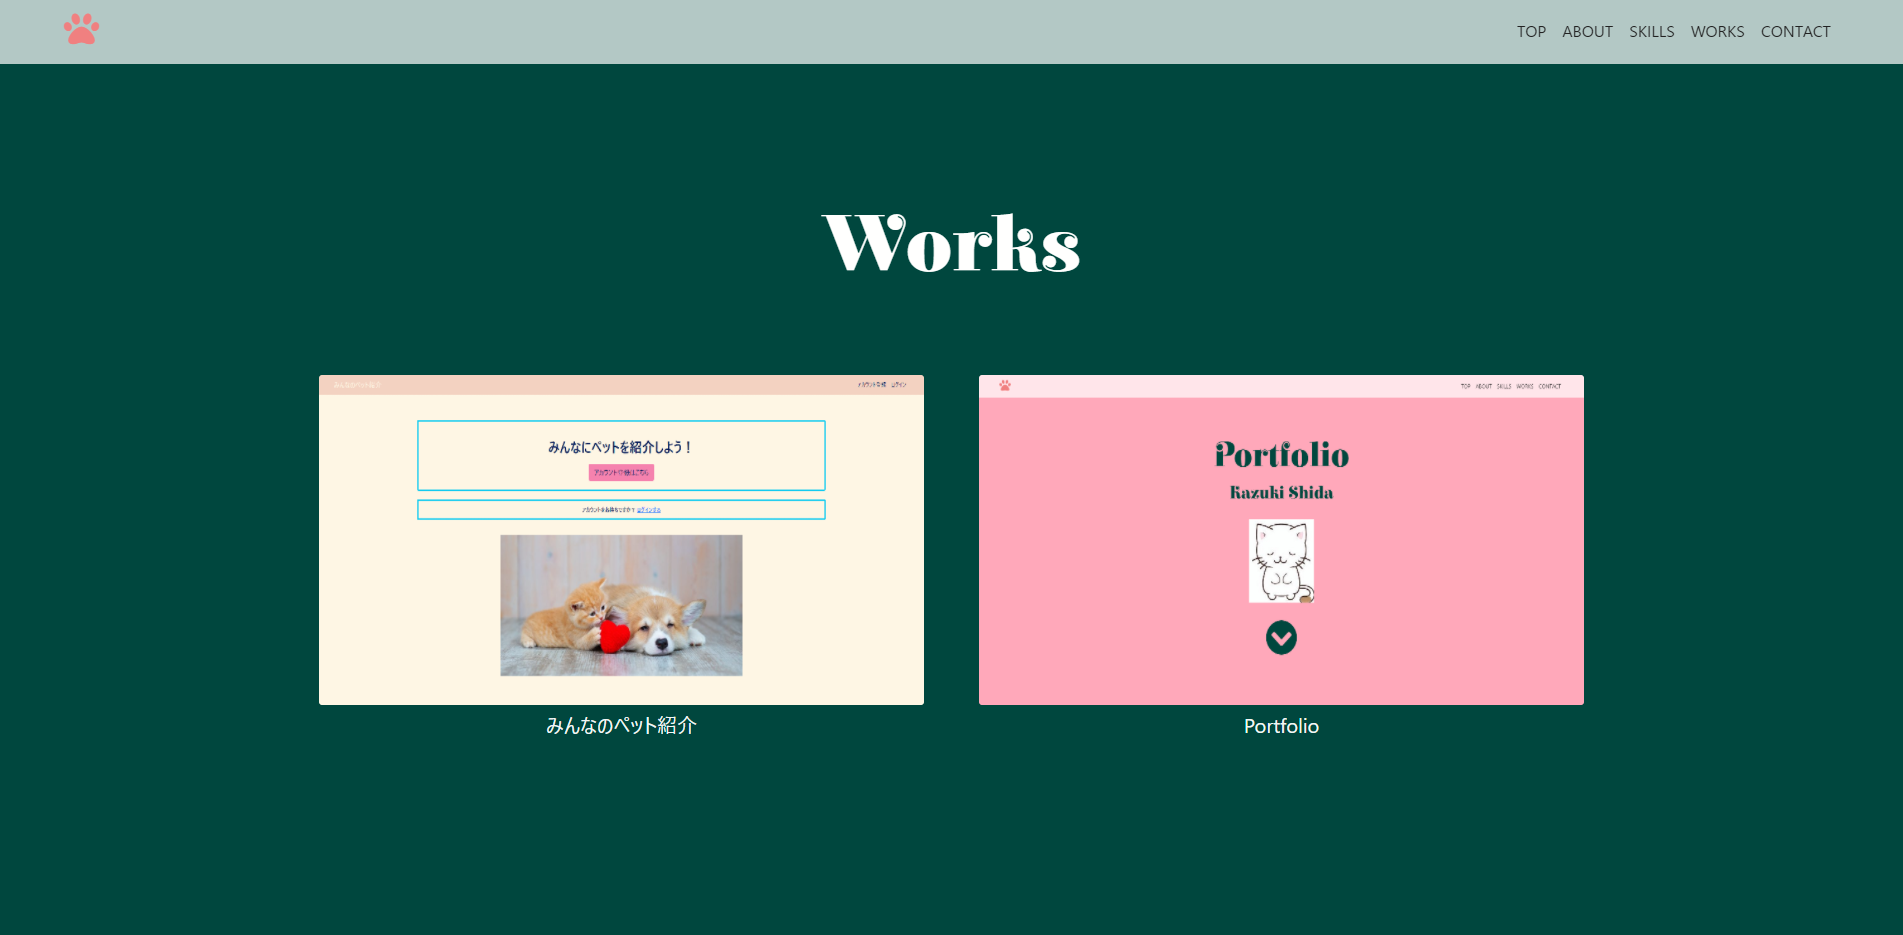
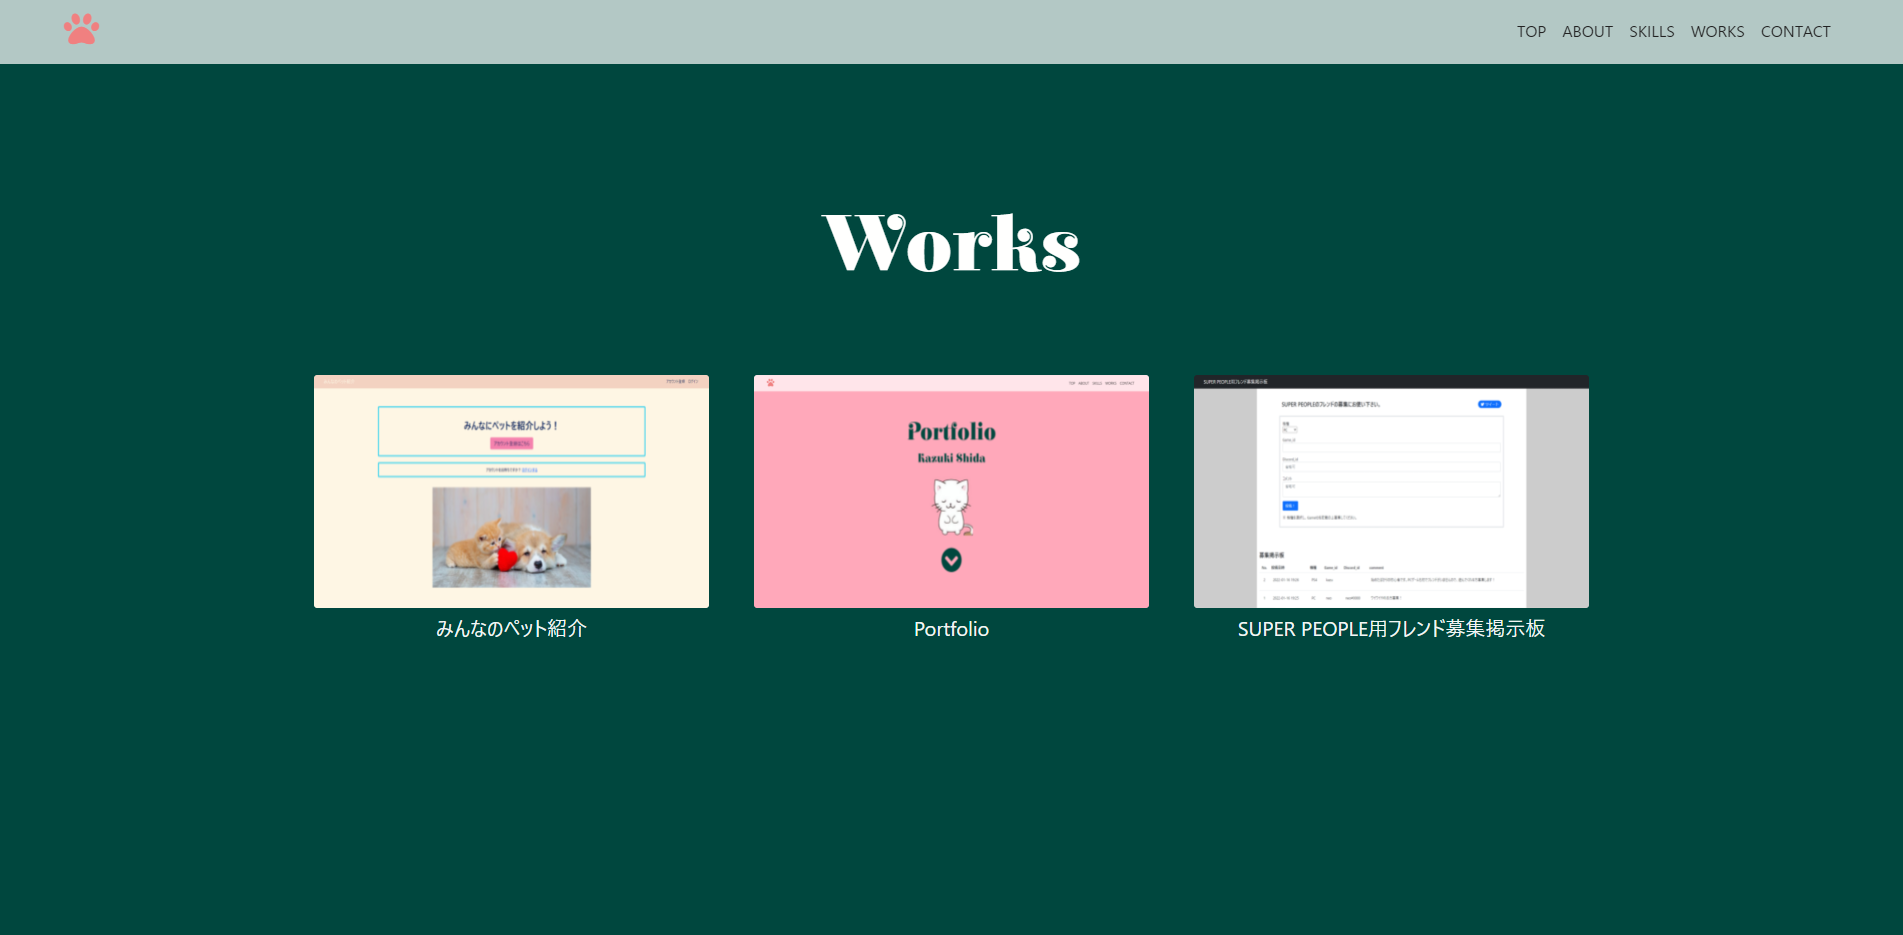
add recruit-game

Changed region(s): [[0.155, 0.4032, 0.8371, 0.8064]]

diff --git a/app/assets/stylesheets/application.css b/app/assets/stylesheets/application.css
@@ -326,6 +326,18 @@ padding: 0px;
   transition-duration: 0.3s;
 }
 
+#works .img3 {
+  width: 95%;
+  height: 95%;
+  border-radius: 3px;
+  transition-duration: 0.3s;
+}
+
+#works .img3:hover {
+  transform:scale(1.05,1.05);
+  transition-duration: 0.3s;
+}
+
 #works p {
   font-size: 20px;
   margin-top: 5px;
@@ -340,6 +352,9 @@ padding: 0px;
   padding-top: 40px;
 }
 
+#works .recruit-game {
+  padding-top: 40px;
+}
 
 /*--   Portfolio   --*/
 
@@ -515,6 +530,85 @@ padding: 0px;
   transform:scale(1.05,1.05);
   transition-duration: 0.3s;
 }
+
+/*--   SUPER PEOPLE用フレンド募集掲示板   --*/
+
+.recruit-games {
+  padding-top: 80px;
+  background-color: #fffffe;
+  min-height: 100vh;
+}
+
+.recruit-games h3 {
+  color: #272343;
+  display: flex;
+  align-items: center;
+}
+
+.recruit-games h3:before, h3:after {
+  border-top: 1px solid;
+  content: "";
+  flex-grow: 1;
+}
+
+.recruit-games h3:before {
+  margin-right: 1rem;
+}
+
+.recruit-games h3:after {
+  margin-left: 1rem;
+}
+
+.recruit-games h5 {
+  color: #272343;
+  display: flex;
+  align-items: center;
+}
+
+.recruit-games h5:before, h5:after {
+  border-top: 1px solid;
+  content: "";
+  flex-grow: 1;
+}
+
+.recruit-games h5:before {
+  margin-right: 1rem;
+}
+
+.recruit-games h5:after {
+  margin-left: 1rem;
+}
+
+.recruit-games p {
+  font-size: 17px;
+  width:100%;
+  overflow-wrap: break-word;
+  color: #2d334a;
+}
+
+.recruit-games .photos a {
+  color: #fffffe;
+  margin-left: 10px;
+}
+
+.recruit-games .photos a:hover {
+  color: #fffffe;
+}
+
+.recruit-games .recruit-game1 {
+  margin-bottom: 10px;
+  width: 350px;
+  height: 250px;
+  border: 2px solid #272343;
+  border-radius: 3px;
+  transition-duration: 0.3s;
+}
+
+.recruit-games .recruit-game1:hover {
+  transform:scale(1.05,1.05);
+  transition-duration: 0.3s;
+}
+
 
 
 /*--   contact   --*/

diff --git a/config/routes.rb b/config/routes.rb
@@ -4,4 +4,6 @@ Rails.application.routes.draw do
   get 'pet_show', to: 'pet_show#index'
   
   get 'portfolio', to: 'portfolio#index'
+  
+  get 'recruit_game', to: 'recruit_game#index'
 end

diff --git a/app/controllers/recruit_game_controller.rb b/app/controllers/recruit_game_controller.rb
@@ -1,0 +1,4 @@
+class RecruitGameController < ApplicationController
+  def index
+  end
+end
